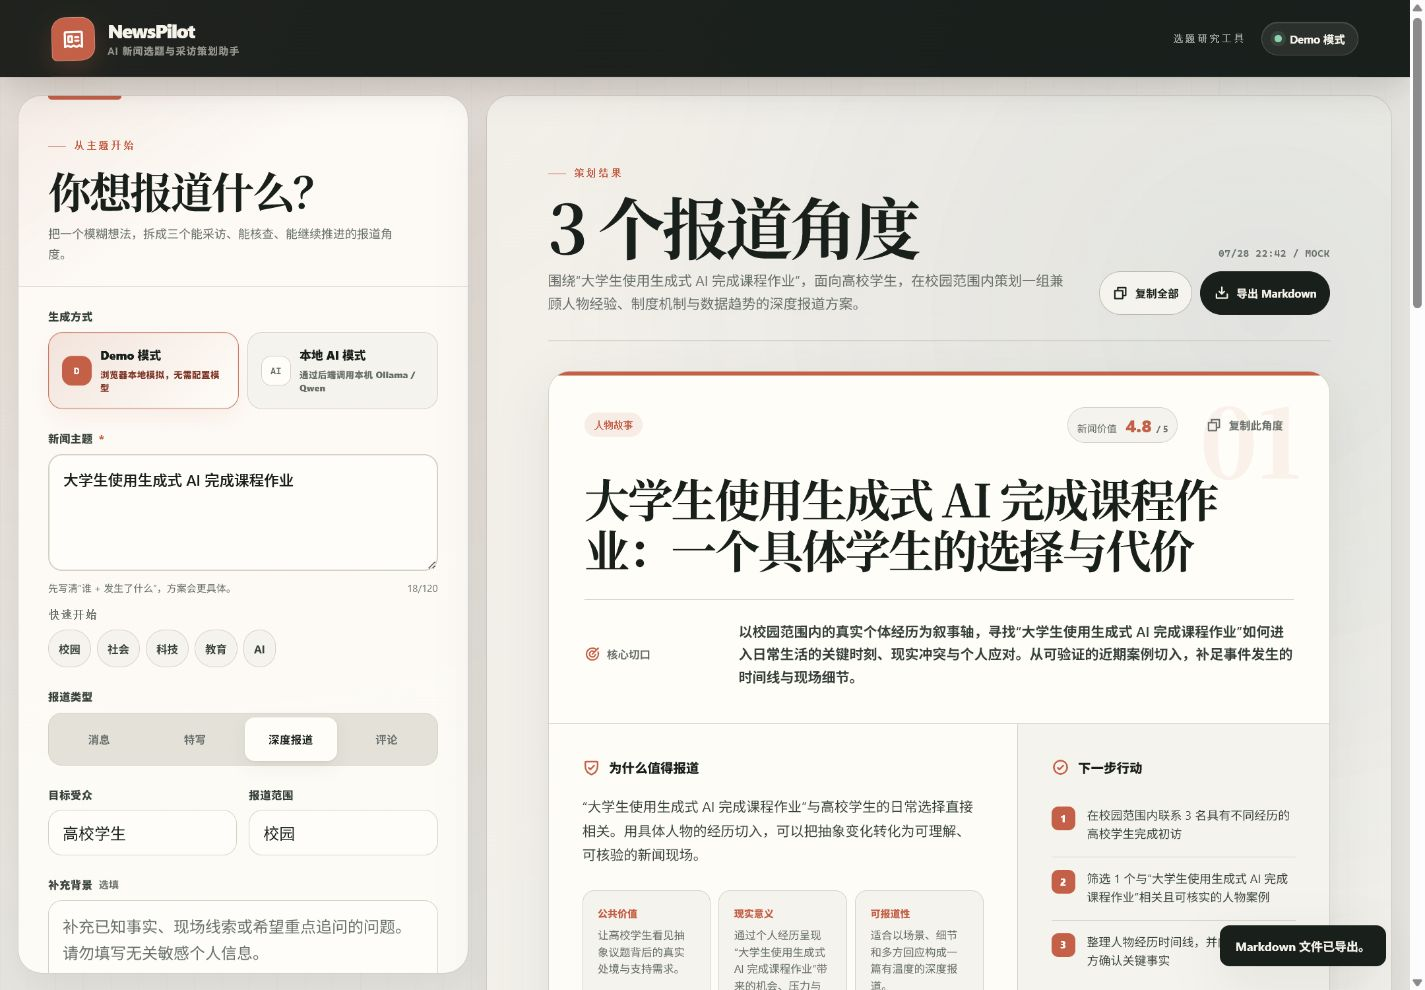
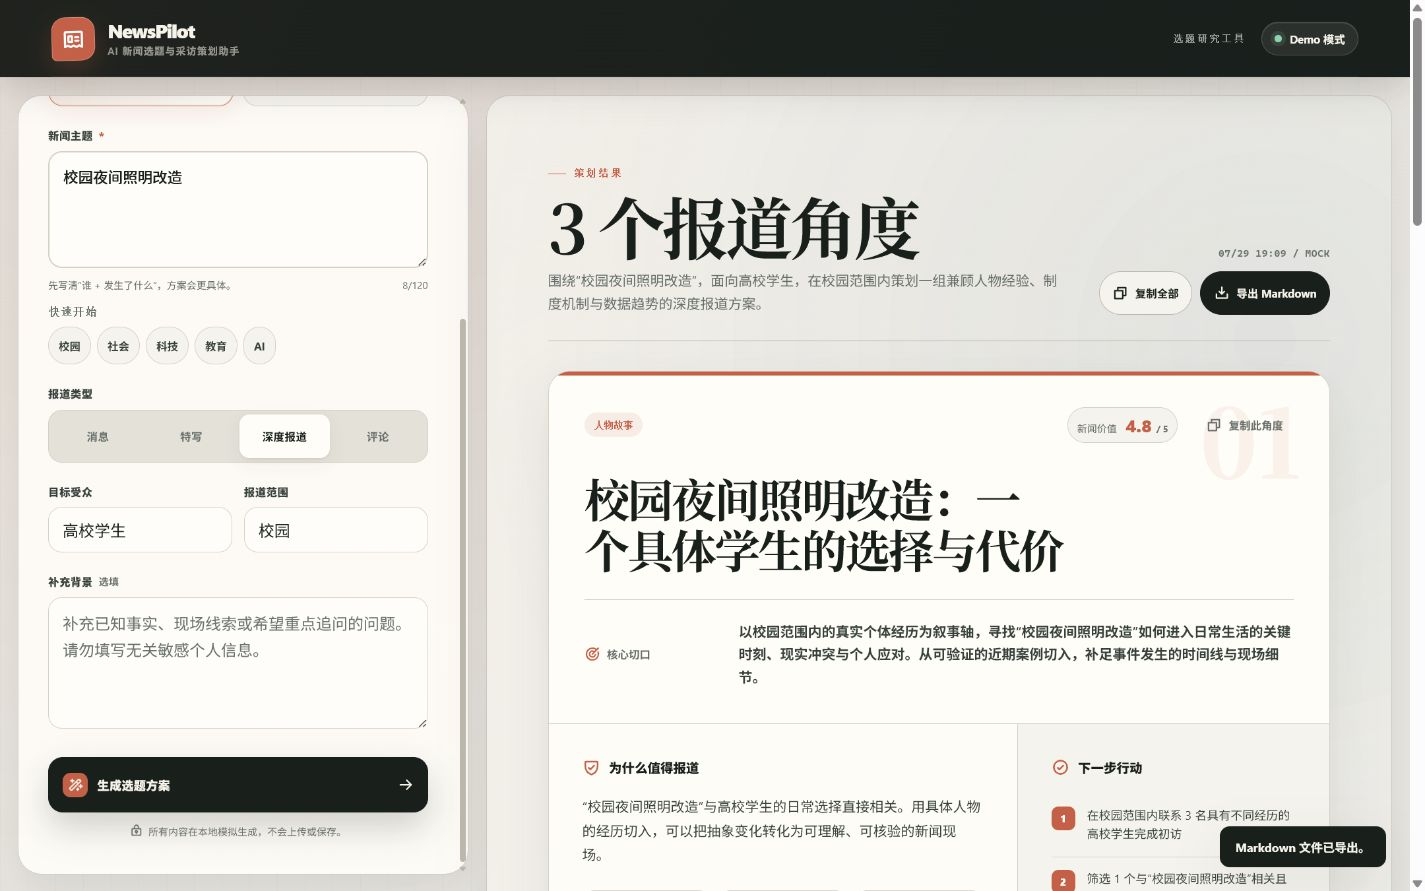
chore: harden open source maintenance

diff --git a/server/tests/api.test.ts b/server/tests/api.test.ts
@@ -55,6 +55,27 @@ class BlockingProvider implements GenerationProvider {
   }
 }
 
+test('GET /api/health 返回 Provider 状态并禁止缓存', async () => {
+  const mockProvider = new MockProvider();
+  const server = createApiServer(new GeneratorService(mockProvider, mockProvider));
+  const baseUrl = await listen(server);
+
+  try {
+    const response = await fetch(baseUrl + '/api/health');
+
+    assert.equal(response.status, 200);
+    assert.equal(response.headers.get('Cache-Control'), 'no-store');
+    assert.equal(response.headers.get('X-Content-Type-Options'), 'nosniff');
+    assert.deepEqual(await response.json(), {
+      ok: true,
+      provider: 'mock',
+      fallbackProvider: 'mock',
+    });
+  } finally {
+    await close(server);
+  }
+});
+
 test('POST /api/generate 返回经过服务层的 GenerationResult', async () => {
   const mockProvider = new MockProvider();
   const server = createApiServer(new GeneratorService(mockProvider, mockProvider));
@@ -82,11 +103,6 @@ test('POST /api/generate 返回经过服务层的 GenerationResult', async () =>
       body: JSON.stringify({ topic: '' }),
     });
     assert.equal(invalidResponse.status, 400);
-
-    const healthResponse = await fetch(baseUrl + '/api/health');
-    const health = (await healthResponse.json()) as { provider: string };
-    assert.equal(healthResponse.status, 200);
-    assert.equal(health.provider, 'mock');
   } finally {
     await close(server);
   }

diff --git a/src/services/providerStatus.ts b/src/services/providerStatus.ts
@@ -65,7 +65,7 @@ export const getProviderPresentation = (
   if (status.state === 'checking') {
     return {
       optionTitle: '正在检测生成服务',
-      optionDescription: '确认本地或云端 AI 后端是否可用',
+      optionDescription: '识别项目后端配置的 AI Provider',
       activeLabel: '正在检测',
       privacyNotice: '正在检测生成服务，完成前不会发送主题内容。',
       footerNotice: '正在检测生成服务，生成内容需独立核验',
@@ -75,12 +75,12 @@ export const getProviderPresentation = (
 
   if (status.state === 'ready' && status.provider === 'ollama') {
     return {
-      optionTitle: 'Ollama 本地 AI',
-      optionDescription: '通过本机后端调用本机 Qwen',
-      activeLabel: 'Ollama 本地 AI',
+      optionTitle: 'Ollama AI',
+      optionDescription: '通过项目后端调用已配置的 Ollama / Qwen',
+      activeLabel: 'Ollama AI',
       privacyNotice:
-        '输入会发送到本机后端与 Ollama，不会提交给第三方模型服务；请勿填写敏感个人信息。',
-      footerNotice: '输入由本机 Ollama 处理，生成内容需独立核验',
+        '输入会发送到项目后端与已配置的 Ollama 服务；请确认该地址可信，并勿填写敏感个人信息。',
+      footerNotice: '输入由已配置的 Ollama 服务处理，生成内容需独立核验',
       optionDisabled: false,
     };
   }

diff --git a/server/tests/clientProviderStatus.test.ts b/server/tests/clientProviderStatus.test.ts
@@ -84,6 +84,22 @@ test('静态部署或非法健康响应安全回落为不可用', async () => {
 });
 
 test('Provider 展示文案准确说明数据去向与可用状态', () => {
+  const checking = getProviderPresentation({
+    state: 'checking',
+    provider: null,
+  });
+  assert.match(checking.optionDescription, /识别项目后端配置/u);
+
+  const ollama = getProviderPresentation({
+    state: 'ready',
+    provider: 'ollama',
+  });
+  assert.equal(ollama.optionTitle, 'Ollama AI');
+  assert.match(ollama.optionDescription, /已配置的 Ollama/u);
+  assert.match(ollama.privacyNotice, /请确认该地址可信/u);
+  assert.doesNotMatch(ollama.privacyNotice, /不会提交给第三方/u);
+  assert.equal(ollama.optionDisabled, false);
+
   const openAI = getProviderPresentation({
     state: 'ready',
     provider: 'openai',

diff --git a/src/components/ResultSection.tsx b/src/components/ResultSection.tsx
@@ -19,6 +19,8 @@ interface ResultSectionProps {
   result: GenerationResult;
 }
 
+const FEEDBACK_DURATION_MS = 3_000;
+
 const formatTime = (value: string) =>
   new Intl.DateTimeFormat('zh-CN', {
     month: '2-digit',
@@ -46,7 +48,7 @@ export function ResultSection({ input, result }: ResultSectionProps) {
     feedbackTimer.current = window.setTimeout(() => {
       setFeedback('');
       setCopiedId(null);
-    }, 1800);
+    }, FEEDBACK_DURATION_MS);
   };
 
   const handleCopy = async (text: string, id: string) => {

diff --git a/README.md b/README.md
@@ -1,5 +1,10 @@
 # NewsPilot AI
 
+[![Build](https://github.com/jamesyu200704-star/NewsPilot-AI/actions/workflows/build.yml/badge.svg)](https://github.com/jamesyu200704-star/NewsPilot-AI/actions/workflows/build.yml)
+[![Release](https://img.shields.io/github/v/release/jamesyu200704-star/NewsPilot-AI)](https://github.com/jamesyu200704-star/NewsPilot-AI/releases/latest)
+[![License](https://img.shields.io/github/license/jamesyu200704-star/NewsPilot-AI)](LICENSE)
+[![Live Demo](https://img.shields.io/badge/Live%20Demo-Vercel-000000?logo=vercel)](https://newspilot-ai-ashy.vercel.app)
+
 NewsPilot AI 是一个面向新闻学生、校园媒体和初级记者的新闻选题与采访策划助手。它把模糊主题整理为可执行的报道角度，并补齐采访对象、采访问题、事实核查任务与风险提醒。
 
 AI-assisted news topic planning and interview preparation tool for journalism students.
@@ -37,9 +42,9 @@ NewsPilot AI 将准备过程组织为：
 - 每个角度包含新闻价值、采访对象、采访问题、事实核查清单、风险提醒和下一步行动。
 - 支持复制单个角度、复制完整方案和导出 UTF-8 Markdown 文件。
 - 默认使用浏览器本地 Mock，不上传输入，也不需要 API Key。
-- 页面会通过健康检查识别 Ollama、OpenAI 或未连接状态；只有真实 AI 后端就绪时才允许选择对应 AI 模式。
+- 页面会通过健康检查识别项目后端配置的 Ollama、OpenAI 或 Mock；只有后端报告已配置 AI Provider 时才允许选择对应模式。
 - Express Generator Service 通过 Provider 层支持 Mock、Ollama 与原有 OpenAI Provider。
-- Ollama 使用本机 Qwen 与 JSON Schema Structured Outputs，不需要付费 API 或上传模型权重。
+- Ollama 默认连接本机 Qwen，并使用 JSON Schema Structured Outputs；也可显式配置其他可信 Ollama 地址。
 - Ollama/OpenAI 失败时服务端降级到 MockProvider；API 不可用时前端继续降级到浏览器本地 Mock。
 - 通过结果中的 <code>mode</code> 明确区分 <code>mock</code>、<code>ollama</code> 与 <code>openai</code>，避免混淆内容来源。
 
@@ -75,7 +80,7 @@ flowchart LR
     P --> O["Ollama Provider"]
     P --> A["OpenAI Provider"]
     M --> R["Structured Result"]
-    O --> Q["Local Qwen"]
+    O --> Q["Configured Ollama / Qwen"]
     Q --> V["JSON Schema + Ajv Validation"]
     A --> V["JSON Schema + Ajv Validation"]
     V --> R
@@ -87,7 +92,7 @@ flowchart LR
 实际运行包含三种路径：
 
 - **本地 Mock**：<code>src/services/generator.ts</code> 直接调用共享 Mock 生成器，完全在浏览器运行。
-- **Ollama 本地 AI**：React 前端调用 <code>POST /api/generate</code>，Express API 经 <code>GeneratorService</code> 调用 OllamaProvider 与本机 Qwen。
+- **Ollama AI（默认本机）**：React 前端调用 <code>POST /api/generate</code>，Express API 经 <code>GeneratorService</code> 调用配置的 Ollama / Qwen；默认地址为本机回环地址。
 - **OpenAI**：服务端可选择 OpenAIProvider；页面会明确显示云端 Provider 和数据去向，不会误标为本地处理。
 
 共享的 <code>BriefInput</code>、<code>GenerationResult</code> 和 JSON Schema 位于 <code>shared/generation.ts</code>。服务端只向 Provider 传递通过输入 Schema 校验的数据，并在返回 API 响应前再次校验完整结果。
@@ -106,8 +111,8 @@ flowchart LR
 ### V0.1 Open Source Release
 
 - 默认模式：浏览器本地 Mock。
-- 可选模式：Express Generator Service + Ollama/Qwen 本地推理或 OpenAI Provider。
-- Provider 状态：页面通过 <code>GET /api/health</code> 自动识别；不可用时禁用 AI 选项并安全回到 Demo。
+- 可选模式：Express Generator Service + Ollama/Qwen（默认本机）或 OpenAI Provider。
+- Provider 状态：页面通过 <code>GET /api/health</code> 识别项目后端配置；未连接或仅配置 Mock 时禁用 AI 选项并安全回到 Demo，上游调用失败时仍会自动降级。
 - 当前包版本：<code>0.1.0</code>。
 - 当前不包含账号、权限、数据库、历史记录或生产级 API 网关。
 
@@ -153,9 +158,9 @@ npm run build
 
 该命令构建前端 <code>dist/</code> 与服务端 <code>dist-server/</code>。可用 <code>npm run preview</code> 预览前端构建结果。
 
-## Local AI Mode
+## Ollama AI Mode（默认本机）
 
-本地 AI 模式不需要付费 API；新闻主题只会发送到本机 Express 服务和本机 Ollama。
+默认配置不需要付费 API：新闻主题会发送到本机 Express 服务和 <code>http://localhost:11434</code> 的 Ollama。若修改 <code>OLLAMA_BASE_URL</code>，输入会发送到你配置的地址；请确认该服务可信、连接受到保护，并相应调整隐私判断。
 
 ### 1. 安装 Ollama
 
@@ -190,7 +195,7 @@ npm install
 npm run dev
 ~~~
 
-打开页面后选择“Ollama 本地 AI”并生成。若 Ollama 未启动、模型不存在、返回 JSON 非法或请求失败，应用会给出可操作提示并自动降级到 Demo；JSON 解析失败会先自动重试一次。
+打开页面后选择“Ollama AI”并生成。若 Ollama 未启动、模型不存在、返回 JSON 非法或请求失败，应用会给出可操作提示并自动降级到 Demo；JSON 解析失败会先自动重试一次。
 
 ### 支持哪些模型
 
@@ -218,7 +223,7 @@ npm run dev
 
 ~~~dotenv
 GENERATION_MODE=openai
-OPENAI_API_KEY=your_server_side_key
+OPENAI_API_KEY=
 OPENAI_MODEL=gpt-5.6-terra
 ~~~
 
@@ -276,7 +281,7 @@ OllamaProvider 调用 <code>POST /api/chat</code>，设置 <code>stream=false</c
 
 ### <code>GET /api/health</code>
 
-返回当前主 Provider 与降级 Provider 名称，不返回密钥。
+返回当前配置的主 Provider 与降级 Provider 名称，不探测上游模型，也不返回密钥。
 
 ## 构建与测试
 
@@ -324,6 +329,11 @@ VITE_GENERATION_MODE=mock
 
 ~~~text
 NewsPilot AI/
+├── .github/
+│   ├── ISSUE_TEMPLATE/           # Bug、建议与安全报告入口
+│   ├── workflows/build.yml       # 测试、审计与生产构建
+│   ├── dependabot.yml            # 每周依赖更新
+│   └── PULL_REQUEST_TEMPLATE.md
 ├── docs/                         # 截图与作品集文档
 ├── prompts/
 │   └── newsBrief.ts              # 新闻策划系统提示词与输入封装
@@ -344,6 +354,7 @@ NewsPilot AI/
 │   ├── App.tsx
 │   ├── main.tsx
 │   └── styles.css
+├── .editorconfig                 # 编辑器基础格式约定
 ├── .env.example
 ├── CONTRIBUTING.md
 ├── CHANGELOG.md
@@ -371,7 +382,7 @@ NewsPilot AI/
 ## 内容与隐私边界
 
 - 生成结果不是已完成的采访、调查或事实结论。
-- 本地 Mock 不发送用户输入；本地 AI 模式只发送到本机 Generator Service 与 Ollama；OpenAI 模式会发送给 OpenAI API。
+- 本地 Mock 不发送用户输入；Ollama AI 会把输入发送到项目后端和 <code>OLLAMA_BASE_URL</code> 指向的服务（默认均在本机）；OpenAI 模式会发送给 OpenAI API。
 - 应用不持久化输入，OpenAI 请求设置 <code>store=false</code>；仍不要填写无关的电话、身份证号、学号或其他敏感个人信息。
 - 项目目前不提供账号、权限、数据库、多租户隔离或正式发布流程。
 
@@ -400,6 +411,7 @@ NewsPilot AI/
 - 贡献流程见 [CONTRIBUTING.md](CONTRIBUTING.md)。
 - 安全问题报告方式见 [SECURITY.md](SECURITY.md)。
 - 版本记录见 [CHANGELOG.md](CHANGELOG.md)。
+- GitHub 已提供结构化 Issue 表单、Pull Request 检查清单和每周 Dependabot 更新。
 
 ## 官方参考
 

diff --git a/CHANGELOG.md b/CHANGELOG.md
@@ -6,6 +6,22 @@
 
 ## [Unreleased]
 
+### Added
+
+- 结构化 Bug 与改进建议表单、Pull Request 检查清单和每周 Dependabot 更新。
+- 独立的健康检查契约测试，覆盖 Provider 状态与禁止缓存响应头。
+- 编辑器基础格式约定。
+
+### Changed
+
+- Ollama 页面文案与文档改为描述实际配置地址，不再把自定义 <code>OLLAMA_BASE_URL</code> 误称为必然本机处理。
+- 复制与 Markdown 导出的操作反馈延长到 3 秒，减少提示来不及阅读的情况。
+- GitHub Actions 仅在 <code>main</code>、面向 <code>main</code> 的 Pull Request 或手动触发时运行，并增加超时与高危依赖审计。
+
+### Security
+
+- GitHub Actions 固定到官方发布提交，并关闭 checkout 凭据持久化。
+
 ## [0.1.0] - 2026-07-29
 
 ### Added

diff --git a/CONTRIBUTING.md b/CONTRIBUTING.md
@@ -38,7 +38,7 @@ npm run dev
 
 <code>npm run dev</code> 会同时启动 Express Generator Service 与 Vite 前端。仅调试其中一侧时，可分别使用 <code>npm run dev:server</code> 或 <code>npm run dev:web</code>。
 
-使用本地 AI 模式前，先安装并启动 Ollama，再按 README 设置 <code>GENERATION_MODE=ollama</code>、<code>OLLAMA_BASE_URL</code> 与 <code>OLLAMA_MODEL</code>。不要提交本机模型、Ollama 数据目录或环境文件。
+使用 Ollama AI 前，先安装并启动 Ollama，再按 README 设置 <code>GENERATION_MODE=ollama</code>、<code>OLLAMA_BASE_URL</code> 与 <code>OLLAMA_MODEL</code>。默认地址只监听本机；若改为远程地址，请确认连接和服务可信。不要提交本机模型、Ollama 数据目录或环境文件。
 
 ## 提交 Issue
 

diff --git a/docs/SCREENSHOT_GUIDE.md b/docs/SCREENSHOT_GUIDE.md
@@ -1,6 +1,6 @@
 # 项目截图指南
 
-截图统一使用浏览器本地 Mock 模式，不启动 OpenAI Provider，也不填写或展示任何 API Key。建议使用 Chromium 系浏览器、100% 缩放和 `1440 × 900` 视口；三张截图保持相同视口、主题与窗口尺寸。
+截图统一使用浏览器本地 Mock 模式，不启动 OpenAI Provider，也不填写或展示任何 API Key。可以连接本机 Ollama 后端检查 Provider 标签，但拍摄和生成时必须选中 Demo 模式。建议使用 Chromium 系浏览器、100% 缩放和 `1440 × 900` 视口；三张截图保持相同视口、主题与窗口尺寸。
 
 最终 PNG 文件直接放在 `docs/`：
 

diff --git a/.github/PULL_REQUEST_TEMPLATE.md b/.github/PULL_REQUEST_TEMPLATE.md
@@ -1,0 +1,19 @@
+## 修改内容
+
+请简要说明本次修改解决了什么问题。
+
+## 验证
+
+- [ ] 已运行 `npm test`
+- [ ] 已运行 `npm run build`
+- [ ] 界面改动已在桌面端和移动端检查
+
+## 安全与隐私
+
+- [ ] 未提交 `.env`、API Key、访问令牌或测试密钥
+- [ ] 未加入个人信息、本地绝对路径或未公开新闻材料
+- [ ] 新增依赖确有必要，且已检查依赖漏洞
+
+## 相关 Issue
+
+如适用，请填写 `Closes #编号`。
